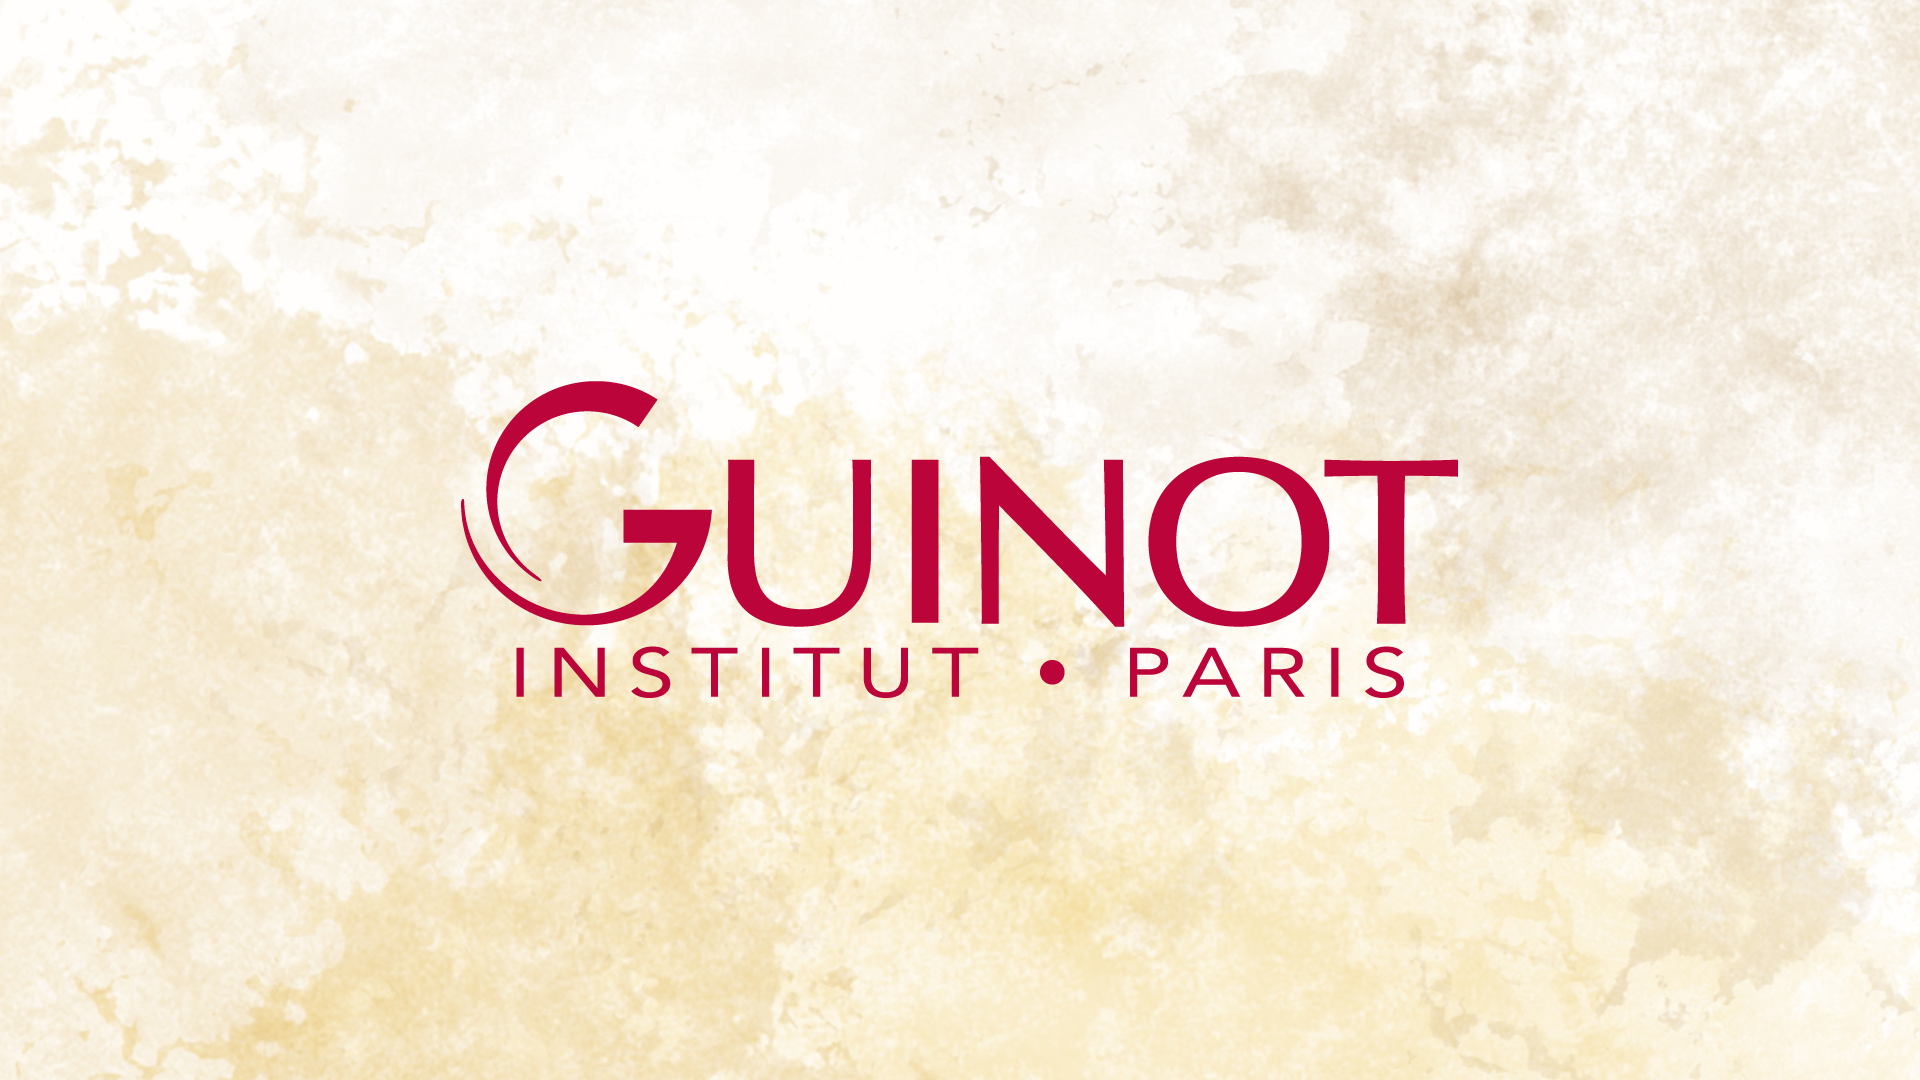
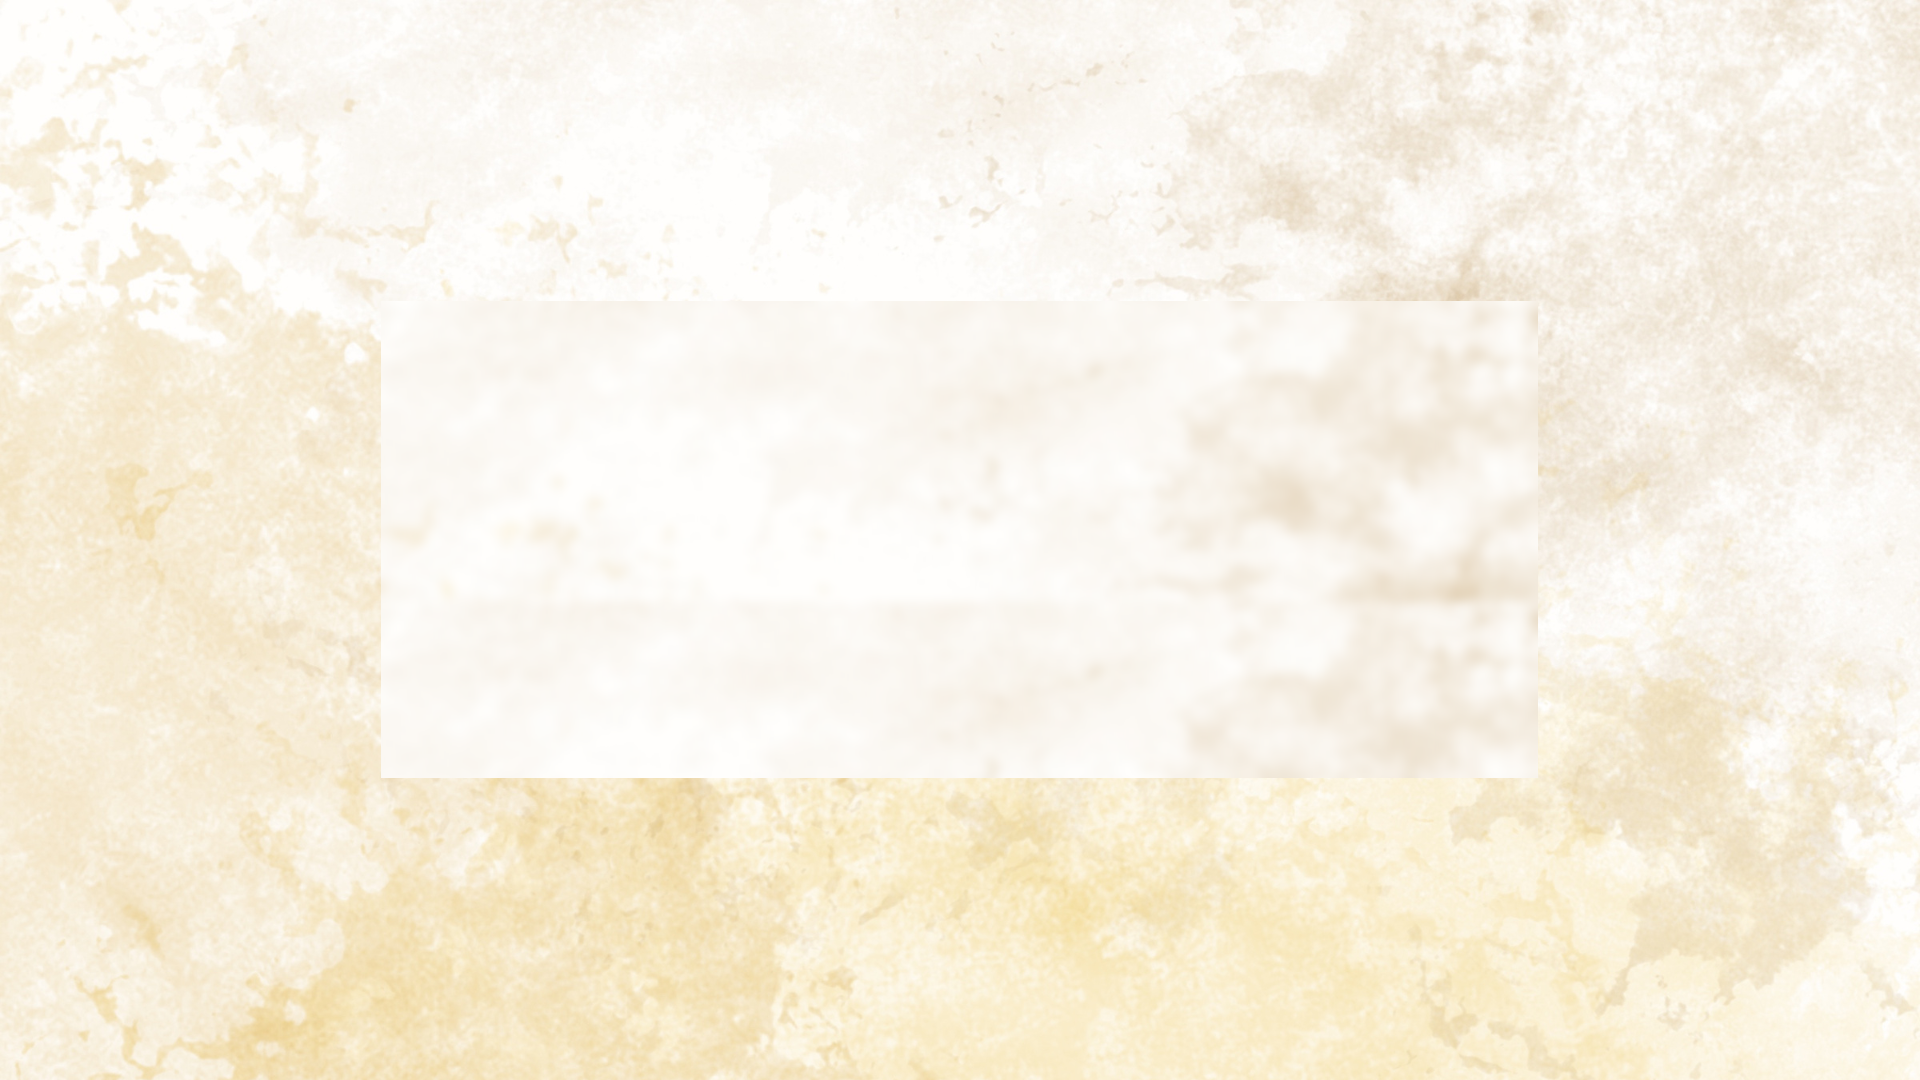
fix: 背景ロゴを左上に配置（CSS多重背景で実装）
Made-with: Cursor

Changed region(s): [[0.1875, 0.3056, 0.8125, 0.7333], [0.7188, 0.275, 0.8125, 0.3361], [0.75, 0.6417, 0.8125, 0.7333]]

diff --git a/index.html b/index.html
@@ -78,7 +78,10 @@ html {
 }
 @media (min-width: 431px) {
   html {
-    background: #1a0a0a url('images/backgraund.png') center top / cover no-repeat fixed;
+    background:
+      url('images/logo.png') no-repeat 30px 30px / 180px auto fixed,
+      url('images/backgraund.png') center top / cover no-repeat fixed;
+    background-color: #1a0a0a;
   }
 }
 
